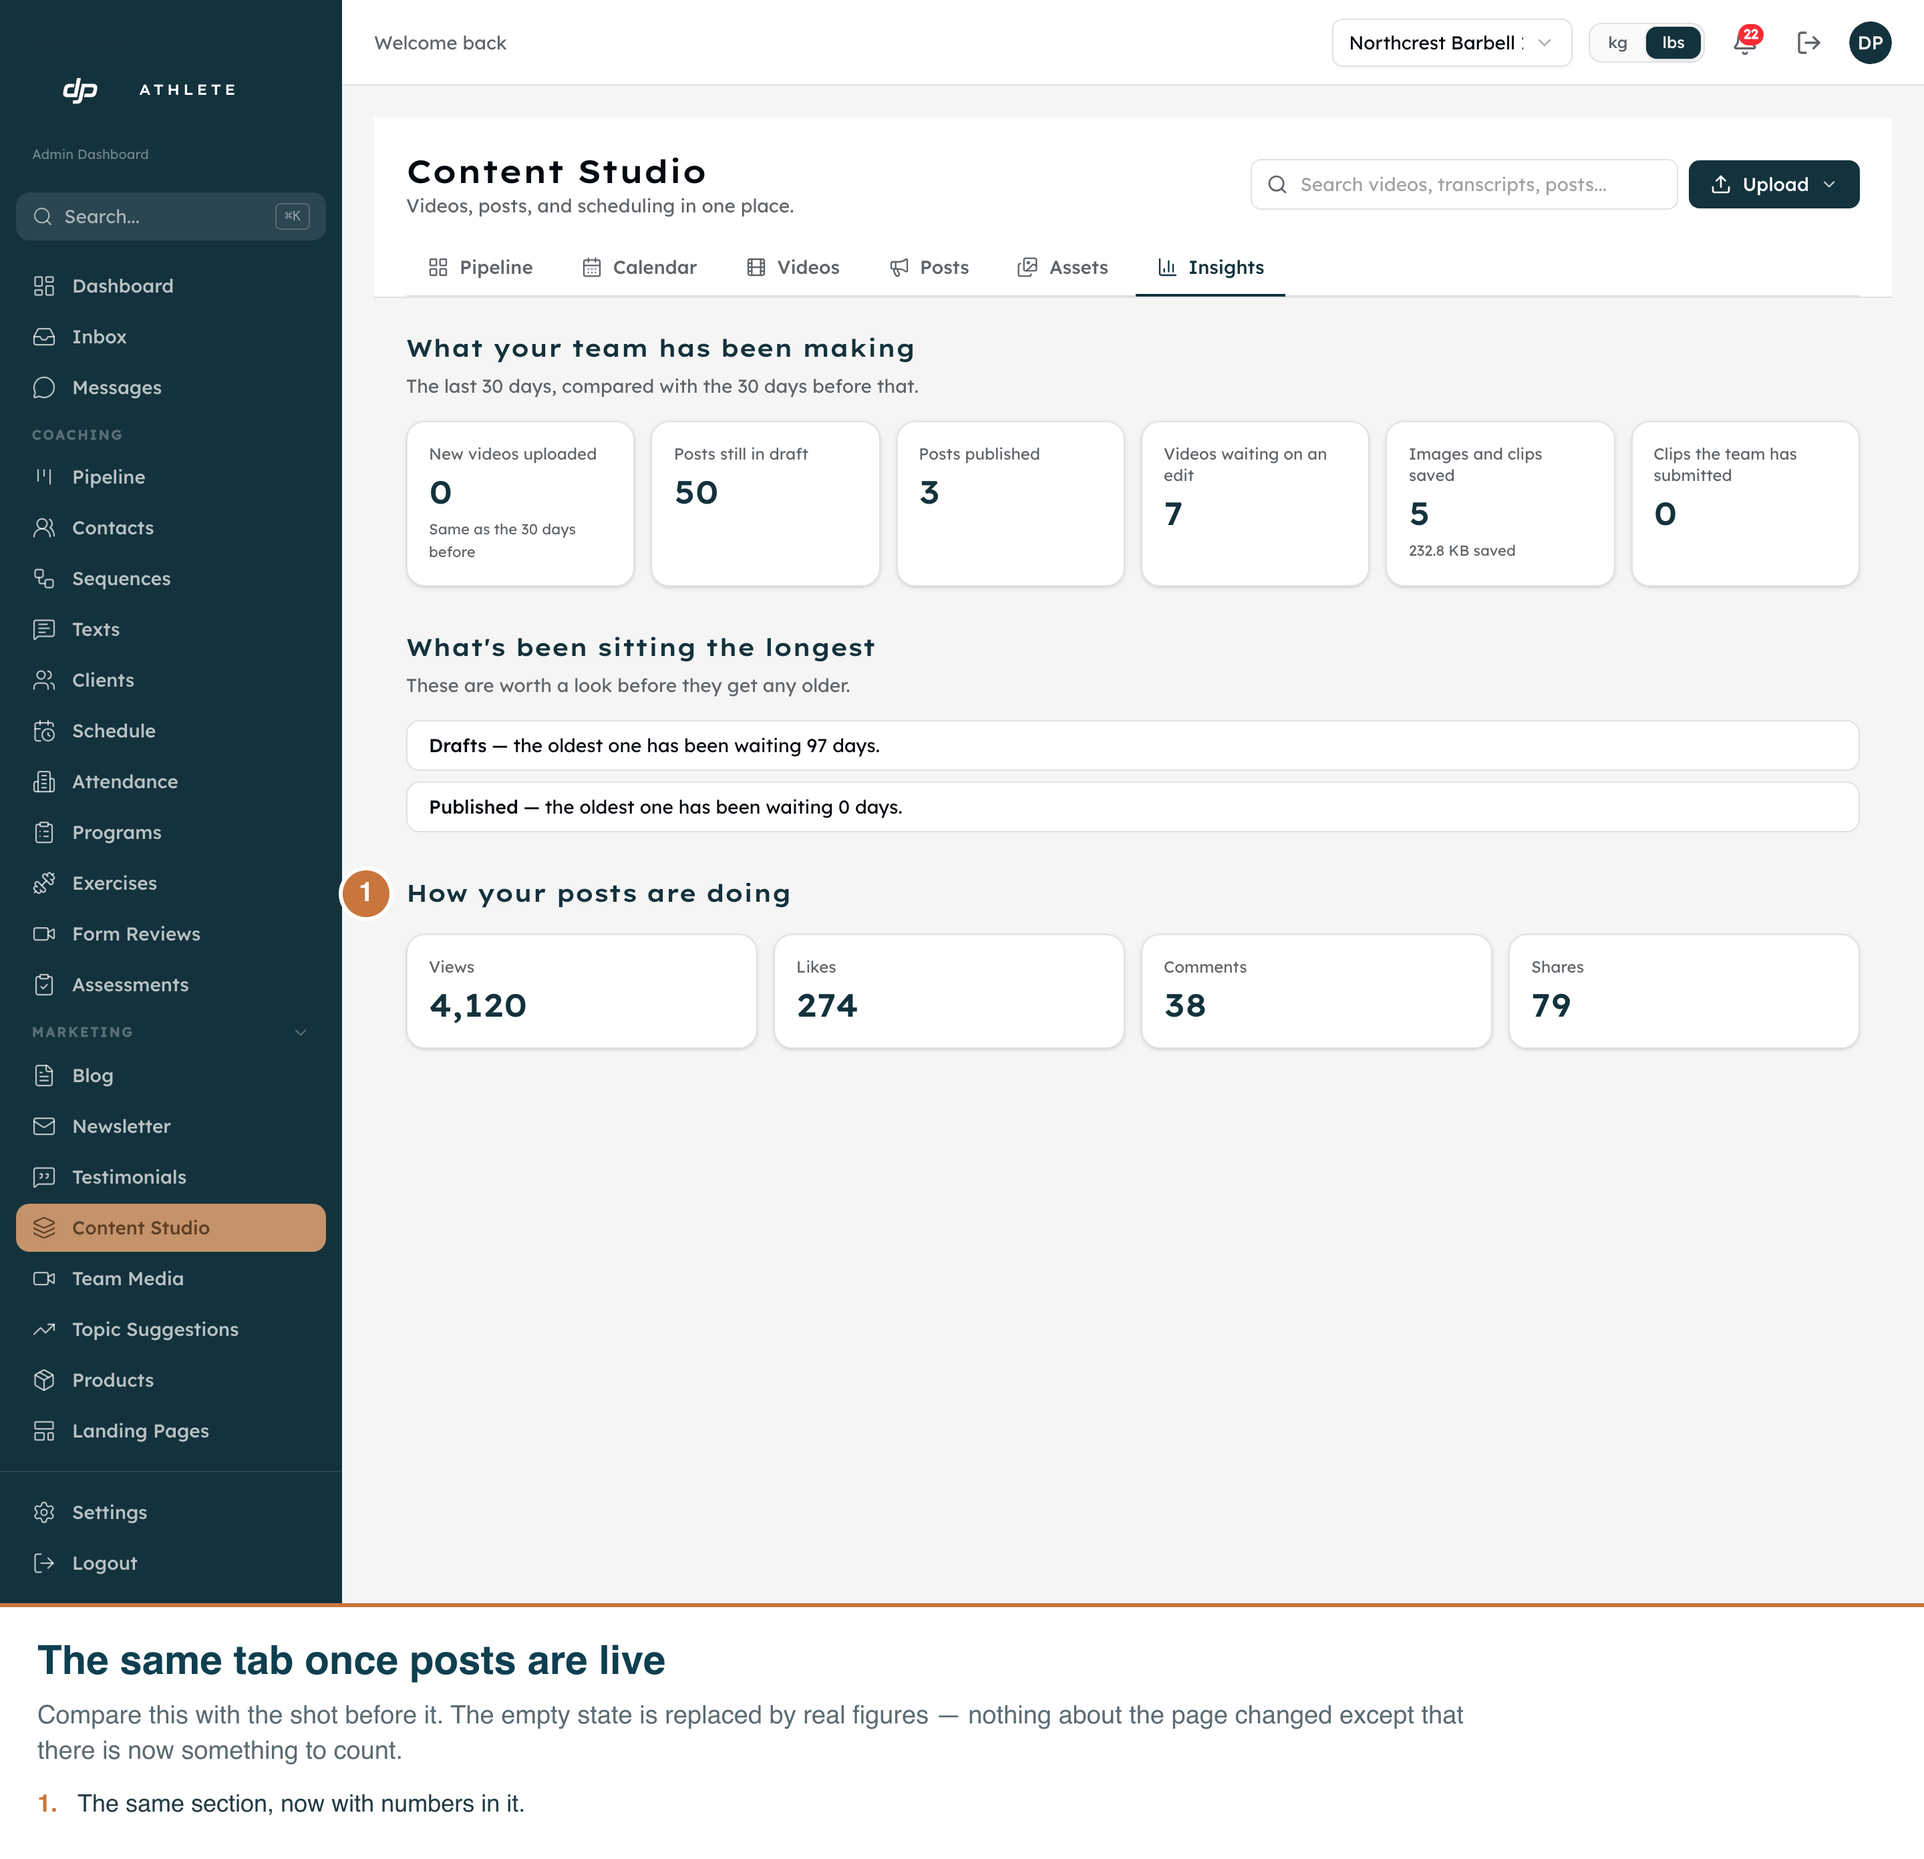
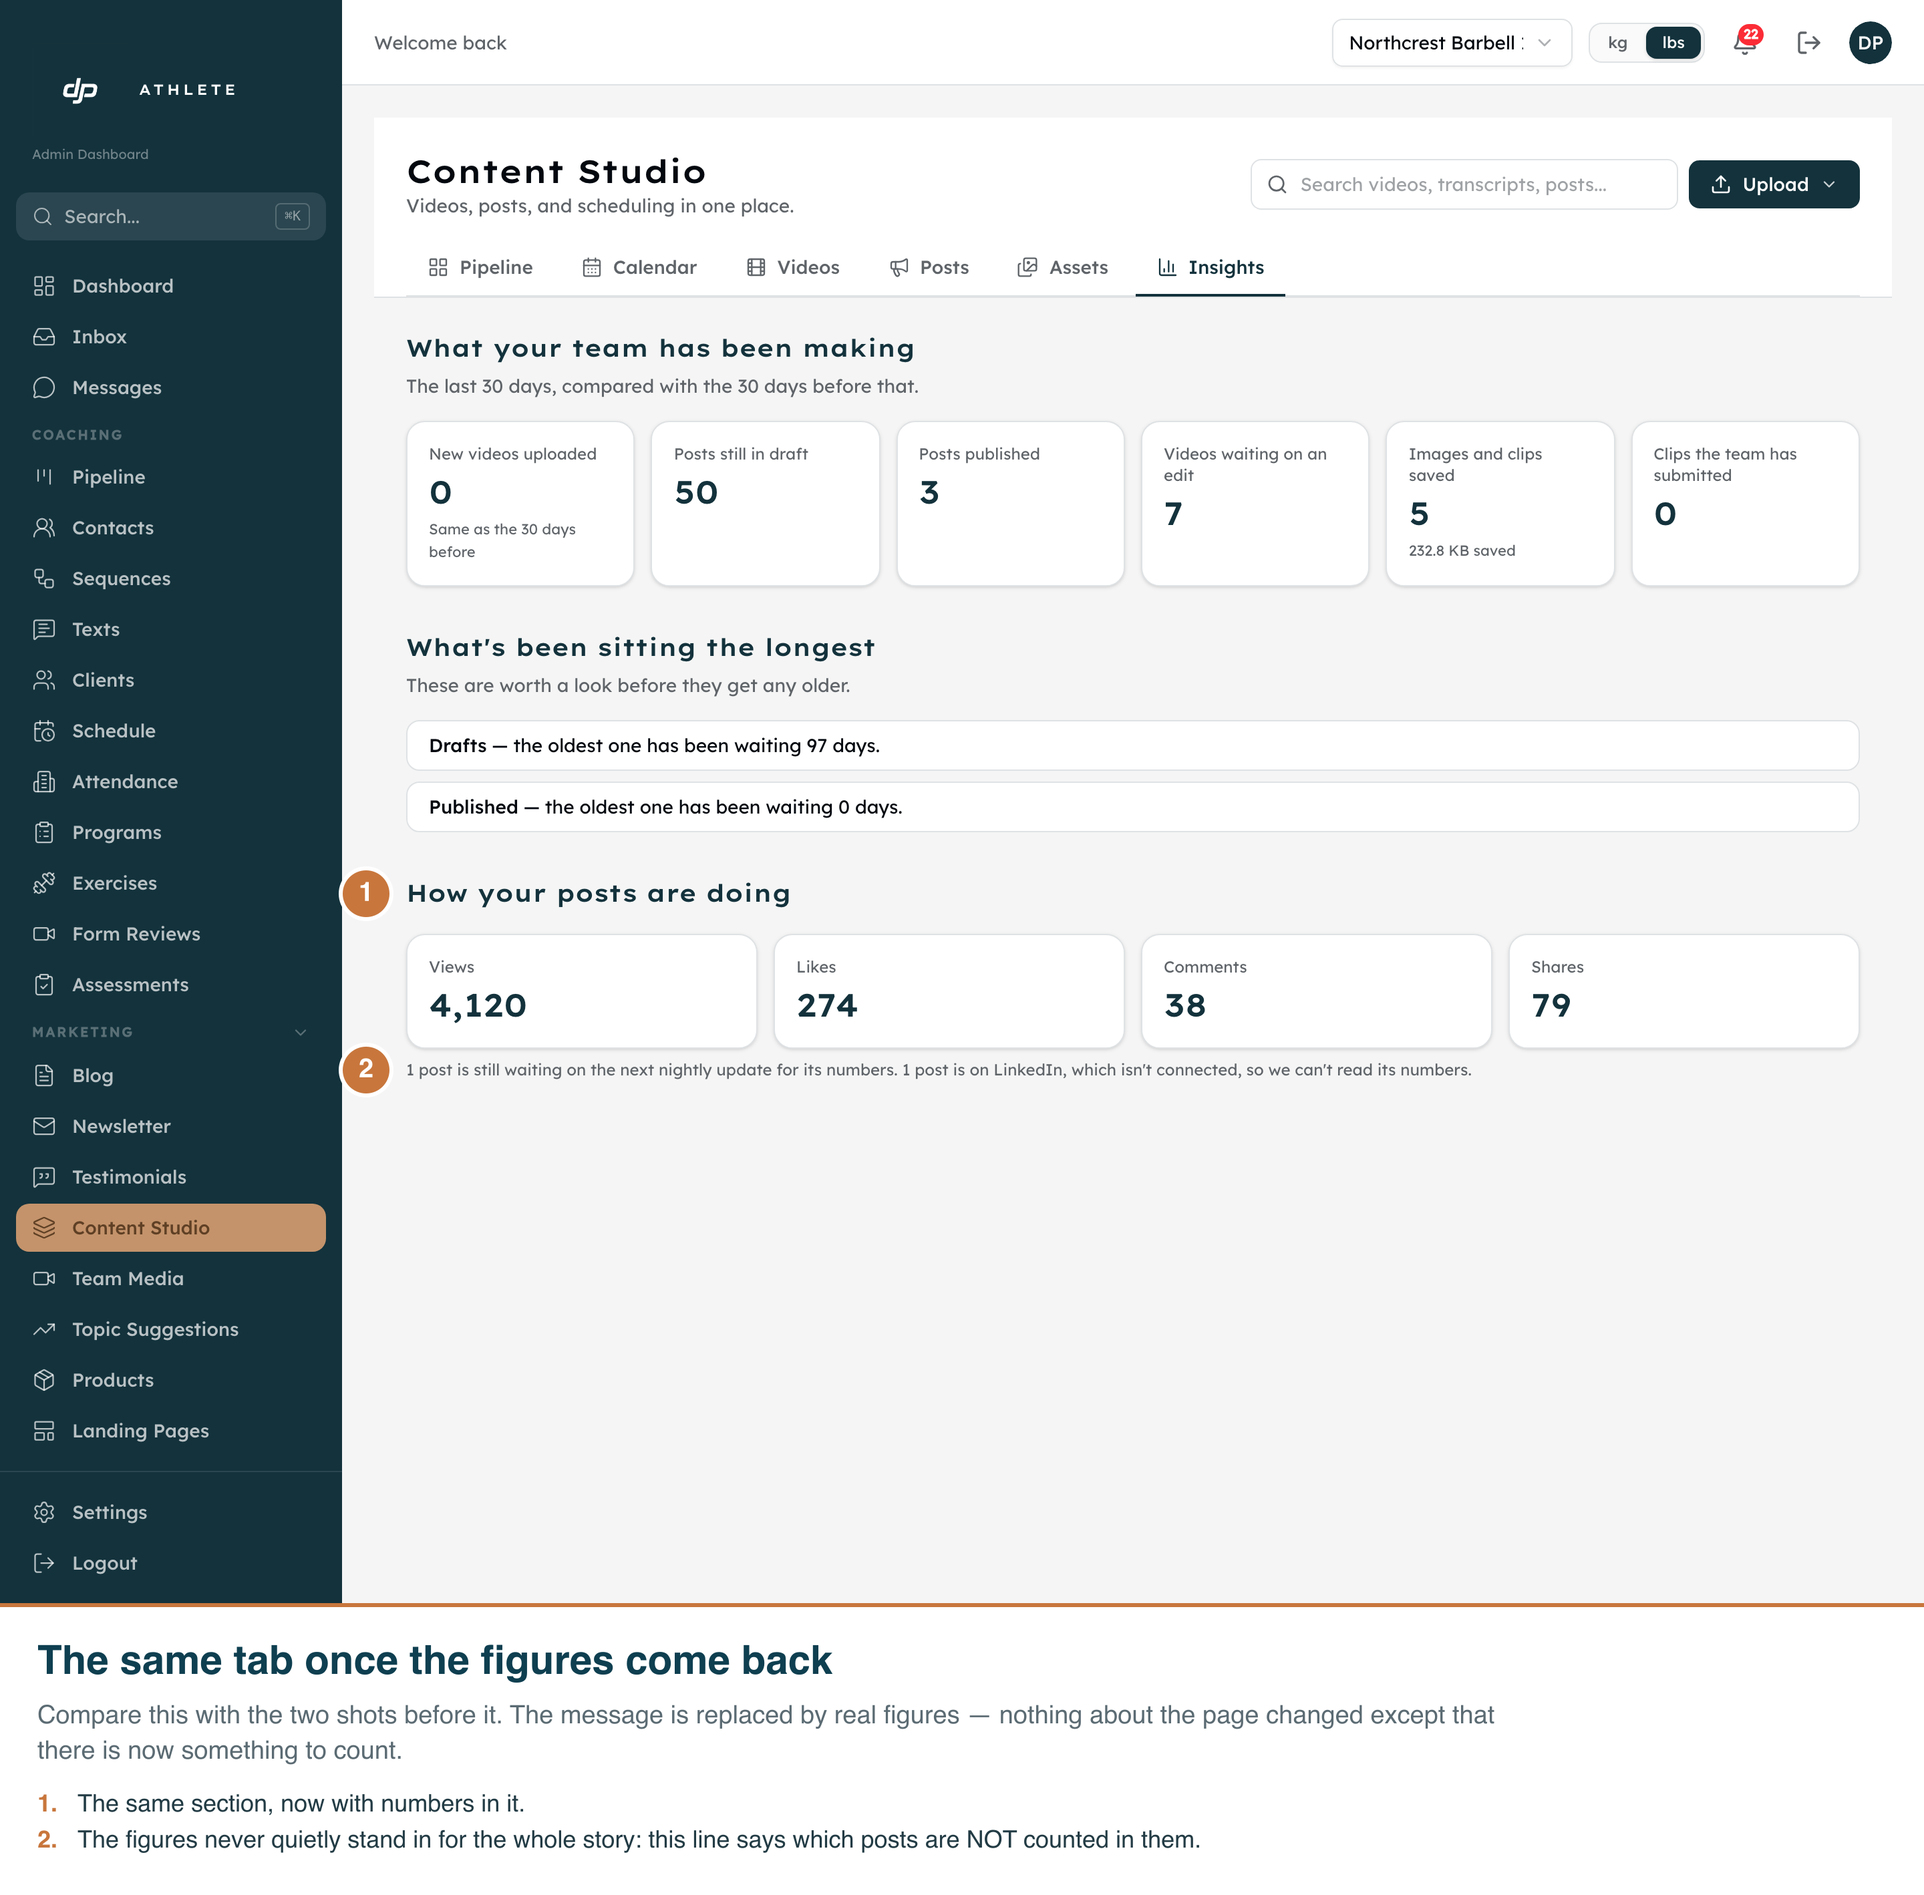
docs(media): re-shoot the Insights tab, including the state the review found broken
The Team Media shot photographed a Preview column that no longer exists, and
its burned-in caption said "Each row shows its own clip" over fourteen rows
of the identical placeholder. It is gone with the column.

In its place the sequence now holds the state that caused the fix: posts live,
no figures collected yet. The capture seeds the posts and their figures in two
steps instead of one, because the gap between them is where a coach sits for
the rest of the day after an afternoon publish — and it is exactly what the
tab used to describe as "nothing has been published yet". Shots 03, 04 and 05
are the same route and the same code three times over, told apart only by what
there is to count.

The measured shot also gained the line beneath the figures naming the posts
those figures do not cover, so the deliverable shows the whole fix rather than
its happy half.

Still seeded on the development copy and deleted again on the way out, by the
ids it created.

diff --git a/scripts/capture-media-thumbnails-and-insights.ts b/scripts/capture-media-thumbnails-and-insights.ts
@@ -14,10 +14,15 @@
 //                            re-renders the new image. The label flips to "A frame you
 //                            chose" and "Revert to auto" appears, both of which are
 //                            rendered from the DATABASE, not from client state.
-//   3. team-media-previews   /admin/team-media, which was text-only rows before this branch.
-//   4. insights-empty        The Insights tab as production will ACTUALLY open it: nothing
+//   3. insights-empty        The Insights tab as production will ACTUALLY open it: nothing
 //                            published, so it says so in words instead of showing "0 views".
-//   5. insights-measured     The same tab with numbers, so the two are comparable.
+//   4. insights-live-no-numbers  Posts ARE live but no figures have come back yet. The tab used
+//                            to call this "nothing has been published yet" — the same sentence
+//                            as shot 3 — while the band above it counted the posts. Those two
+//                            shots side by side are the proof the tab no longer contradicts
+//                            itself, and it is the reason this state got its own frame.
+//   5. insights-measured     The same tab with numbers, so the three are comparable — plus the
+//                            line that keeps saying what is NOT in those numbers.
 //   6. video-performance     All FOUR performance states in one frame — measured,
 //                            waiting-for-numbers, platform-not-connected, and not-published.
 //                            Distinguishing those four is the whole point of the feature,
@@ -166,8 +171,13 @@ interface Seeded {
  * screen at once. Dev has all eight connections set to 'not_connected', so two
  * are flipped to 'connected' and restored afterwards — without that, nothing can
  * ever render as measured and the shot would only prove one of the four states.
+ *
+ * Posts only: the figures are a SEPARATE step (`seedSnapshot`) so the tab can be
+ * photographed in between, live but with nothing measured. Both halves record
+ * their ids into the same `Seeded`, which the caller already holds, so a failure
+ * anywhere between the two still cleans up everything created so far.
  */
-async function seed(db: SupabaseClient, videoId: string): Promise<Seeded> {
+async function seedPosts(db: SupabaseClient, videoId: string): Promise<Seeded> {
   const seeded: Seeded = { postIds: [], analyticsIds: [], restoreConnections: [] }
 
   const { data: conns, error: connErr } = await db
@@ -229,6 +239,15 @@ async function seed(db: SupabaseClient, videoId: string): Promise<Seeded> {
     seeded.postIds.push((data as { id: string }).id)
   }
 
+  return seeded
+}
+
+/**
+ * The figures for the instagram post seeded above, which is what flips it from
+ * "waiting for numbers" to "measured". Kept apart from `seedPosts` so the state
+ * between the two can be photographed.
+ */
+async function seedSnapshot(db: SupabaseClient, seeded: Seeded): Promise<void> {
   const { data: snap, error: snapErr } = await db
     .from("social_analytics")
     .insert({
@@ -248,8 +267,6 @@ async function seed(db: SupabaseClient, videoId: string): Promise<Seeded> {
     .single()
   if (snapErr) throw snapErr
   seeded.analyticsIds.push((snap as { id: string }).id)
-
-  return seeded
 }
 
 async function cleanup(db: SupabaseClient, seeded: Seeded): Promise<void> {
@@ -386,26 +403,12 @@ async function main(): Promise<void> {
     }
 
     // ------------------------------------------------------------------- 3
-    await page.goto(`${APP}/admin/team-media`, { waitUntil: "networkidle" })
-    await page.waitForSelector("text=Team Media", { timeout: 15_000 })
-    await shoot(
-      page,
-      "03-team-media-previews",
-      "The Team Media board now shows what each clip is",
-      "This board was rows of text. You had to open a submission to see which video it was.",
-      [
-        await markerAt(page, "th:has-text('Preview')", "A new column."),
-        await markerAt(page, "table tbody tr:first-child td:first-child", "Each row shows its own clip."),
-      ],
-    )
-
-    // ------------------------------------------------------------------- 4
     await page.goto(`${APP}/admin/content?tab=insights`, { waitUntil: "networkidle" })
     await page.waitForSelector("text=Insights", { timeout: 15_000 })
     await page.waitForTimeout(600)
     await shoot(
       page,
-      "04-insights-nothing-published",
+      "03-insights-nothing-published",
       "Insights — and it is honest when there is nothing to show",
       "This is how the tab opens today, because nothing has ever been published. It says so in words. A dashboard that showed '0 views' here would look exactly the same as one whose numbers had silently broken.",
       [
@@ -414,19 +417,45 @@ async function main(): Promise<void> {
       ],
     )
 
-    // -------------------------------------------------------------- 5 + 6
-    seeded = await seed(db, videoId)
-    console.log(`  seeded ${seeded.postIds.length} published posts + 1 snapshot on the dev clone`)
+    // ------------------------------------------------------------------- 4
+    // Two seeding steps on purpose. Posts first, figures second, because the
+    // gap between them IS a state the coach will sit in for hours after every
+    // publish — and it is the state this tab used to describe as "nothing has
+    // been published yet". Photographing it needs the posts to exist with no
+    // snapshot against them, which only this order gives.
+    seeded = await seedPosts(db, videoId)
+    console.log(`  seeded ${seeded.postIds.length} published posts (no figures yet) on the dev clone`)
+
+    await page.goto(`${APP}/admin/content?tab=insights`, { waitUntil: "networkidle" })
+    await page.waitForTimeout(800)
+    await shoot(
+      page,
+      "04-insights-live-no-numbers",
+      "Posts are live, the numbers have not arrived",
+      "Every night the app collects the figures. Publish in the afternoon and you sit here until it runs. This used to read 'Nothing has been published yet' — the same words as the shot before — directly under a count saying three posts went out.",
+      [
+        await markerAt(page, "text=/posts have gone live/i", "It says how many went out."),
+        // Right-hand end for the second one. Both lines sit in the same centred
+        // panel about 28px apart, so two left-parked discs overlap each other —
+        // the first run of this shot stacked 1 on top of 2.
+        await markerAt(page, "text=/waiting on the next nightly update/i", "And when to expect the figures.", "right"),
+      ],
+    )
+
+    // ------------------------------------------------------------------- 5
+    await seedSnapshot(db, seeded)
+    console.log("  seeded 1 figures snapshot on the dev clone")
 
     await page.goto(`${APP}/admin/content?tab=insights`, { waitUntil: "networkidle" })
     await page.waitForTimeout(800)
     await shoot(
       page,
       "05-insights-with-numbers",
-      "The same tab once posts are live",
-      "Compare this with the shot before it. The empty state is replaced by real figures — nothing about the page changed except that there is now something to count.",
+      "The same tab once the figures come back",
+      "Compare this with the two shots before it. The message is replaced by real figures — nothing about the page changed except that there is now something to count.",
       [
         await markerAt(page, "text=How your posts are doing", "The same section, now with numbers in it."),
+        await markerAt(page, "text=/still waiting on the next nightly update|which (isn't|aren't) connected/i", "The figures never quietly stand in for the whole story: this line says which posts are NOT counted in them."),
       ],
     )
 

diff --git a/screenshots/media-thumbnails-and-insights/index.html b/screenshots/media-thumbnails-and-insights/index.html
@@ -57,21 +57,12 @@
   </section>
 
   <section>
-    <h2>03 &mdash; Team Media has previews</h2>
-    <p class="meta">
-      <code>/admin/team-media</code> &middot; this board was rows of text; you had to open a
-      submission to see which clip it was.
-    </p>
-    <img src="03-team-media-previews.png" alt="The Team Media table with a new leading Preview column showing a thumbnail for each submission.">
-  </section>
-
-  <section>
-    <h2>04 &mdash; Insights, exactly as it opens today</h2>
+    <h2>03 &mdash; Insights, exactly as it opens today</h2>
     <p class="meta">
       <code>/admin/content?tab=insights</code> &middot; nothing has ever been published, so the
       lower half says so in words.
     </p>
-    <img src="04-insights-nothing-published.png" alt="The Insights tab showing production counts and, below them, a panel reading 'Nothing has been published yet.'">
+    <img src="03-insights-nothing-published.png" alt="The Insights tab showing production counts and, below them, a panel reading 'Nothing has been published yet.'">
     <ul>
       <li>The counts above the line work today and do not wait on anything being published.</li>
       <li>&ldquo;Drafts &mdash; the oldest one has been waiting 97 days&rdquo; is the number that
@@ -82,12 +73,36 @@
   </section>
 
   <section>
-    <h2>05 &mdash; The same tab once posts are live</h2>
+    <h2>04 &mdash; Posts are live, the numbers have not arrived</h2>
+    <p class="meta">
+      The same tab with three posts published and no figures collected against them yet &mdash;
+      where a coach sits for the rest of the day after an afternoon publish.
+      Seeded on the development copy and deleted again immediately afterwards.
+    </p>
+    <img src="04-insights-live-no-numbers.png" alt="The Insights tab reading '3 posts have gone live' above a line saying two posts are waiting on the next nightly update and one is on LinkedIn, which is not connected.">
+    <ul>
+      <li><strong>This shot is here because the tab used to get it wrong.</strong> Until the final
+          review it printed &ldquo;Nothing has been published yet&rdquo; here &mdash; word for word
+          the sentence in shot 03 &mdash; while the band directly above it counted
+          &ldquo;Posts published &mdash; 3&rdquo;. One screen, two contradictory claims.</li>
+      <li>A post on a platform that is not connected read that way permanently, not just overnight.</li>
+      <li>Compare the lower panel with shot 03: same route, same code, and the two situations are
+          now told apart in words.</li>
+    </ul>
+  </section>
+
+  <section>
+    <h2>05 &mdash; The same tab once the figures come back</h2>
     <p class="meta">
       Identical route and code; the only difference is that there is now something to count.
       Seeded on the development copy and deleted again immediately afterwards.
     </p>
-    <img src="05-insights-with-numbers.png" alt="The Insights tab with real view, like, comment and share figures in place of the empty-state message.">
+    <img src="05-insights-with-numbers.png" alt="The Insights tab with real view, like, comment and share figures, and beneath them a line naming the posts those figures do not cover.">
+    <ul>
+      <li>The line under the figures survives into this state on purpose: 4,120 views is the total
+          for the posts that <em>could</em> be measured, and the sentence beneath says which ones
+          are missing from it.</li>
+    </ul>
   </section>
 
   <section>
